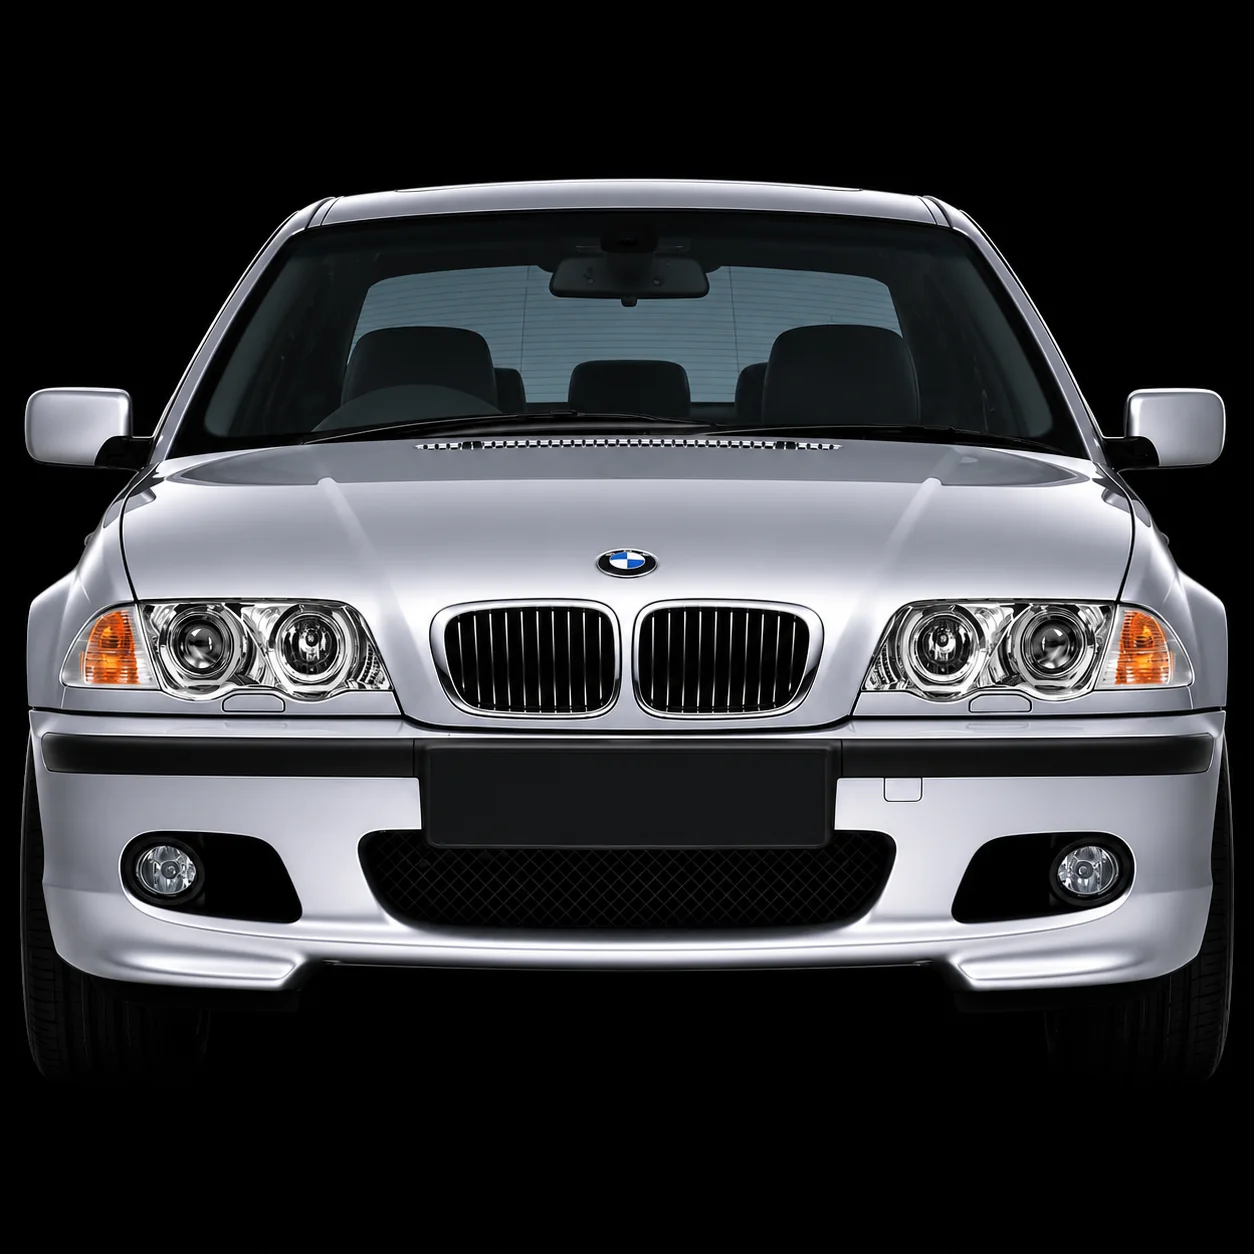
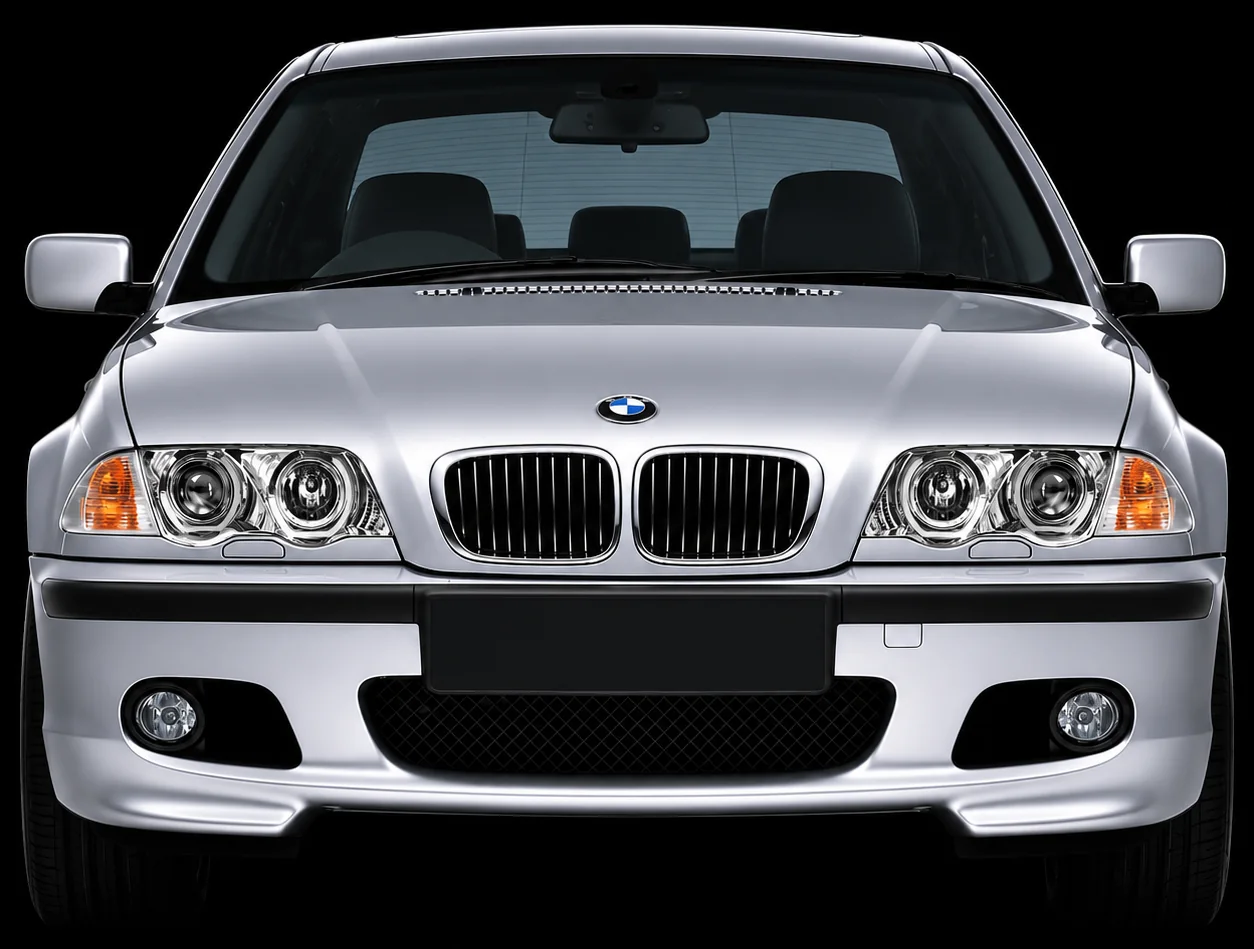
BL-027: home page — whole E46 in the card frame at every width (object-contain, black letterbox)
PO: on desktop the roof and windscreen top were cropped; the whole car must show.
- <Image> object-cover → object-contain; image container gets bg-black (the
  photo's background is pure #000, so the letterbox bars are invisible).
- e46-front-halo-dark.webp re-exported from the PO's PNG with the uniform black
  margin above/below the car trimmed (24 px kept, full width): 1254×949, so the
  car renders as large as the frame allows. No other pixel editing.
- Result: car height-limited in both frames (240 px phone, 400 px desktop); side
  bars only. Code comment updated. Gate/screenshots pending a machine window.

Claude-Session: https://claude.ai/code/session_01XHbSSJpsTKoMp8fG3D6XiP

diff --git a/app/[lang]/page.tsx b/app/[lang]/page.tsx
@@ -112,13 +112,14 @@ export default async function Home({ params }: { params: Promise<{ lang: string 
 
           <div className="grid gap-6 lg:grid-cols-3">
             <div className="flex flex-col overflow-hidden rounded-3xl bg-ink text-paper lg:col-span-2">
-              <div className="relative h-[240px] md:h-[400px]">
-                {/* BL-026: photo supplied by the PO (Rodrigo Urbina), 2026-10-05, dark-background variant of
+              <div className="relative h-[240px] bg-black md:h-[400px]">
+                {/* BL-026/BL-027: photo supplied by the PO (Rodrigo Urbina), 2026-10-05, dark-background variant of
                     front_Preface_halo_lights.jpg; PO confirmed he holds the rights to use it. Not AI-generated.
-                    Source "e46 black background.png" (1254×1254), exported as WebP (85 KB). PO chose the dark variant
-                    (option C) so the photo's black blends into the ink card. Square source in a wide frame: the
-                    object-position keeps headlights, grille and roundel centred at phone (240 px) and desktop (400 px) heights. */}
-                <Image src="/images/e46-front-halo-dark.webp" alt={t.garage.e46CardAlt} fill sizes="(min-width: 1024px) 66vw, 100vw" className="object-cover object-[50%_52%]" />
+                    Source "e46 black background.png" (1254×1254); the uniform black margin above and below the car is
+                    trimmed (24 px kept), no other pixel editing; exported as WebP. BL-027 (PO): the WHOLE car at every
+                    width, no cropping — object-contain inside a pure-black area (the photo's background is #000), so the
+                    letterbox bars are invisible; the car is height-limited in both frames (240 px phone, 400 px desktop). */}
+                <Image src="/images/e46-front-halo-dark.webp" alt={t.garage.e46CardAlt} fill sizes="(min-width: 1024px) 66vw, 100vw" className="object-contain" />
               </div>
               <div className="flex flex-col gap-7 p-6 md:p-8">
                 <div className="flex flex-col justify-between gap-5 md:flex-row md:items-start">
